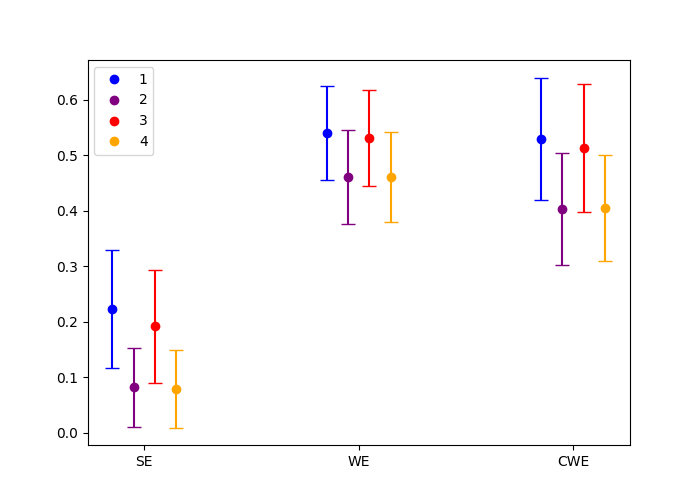
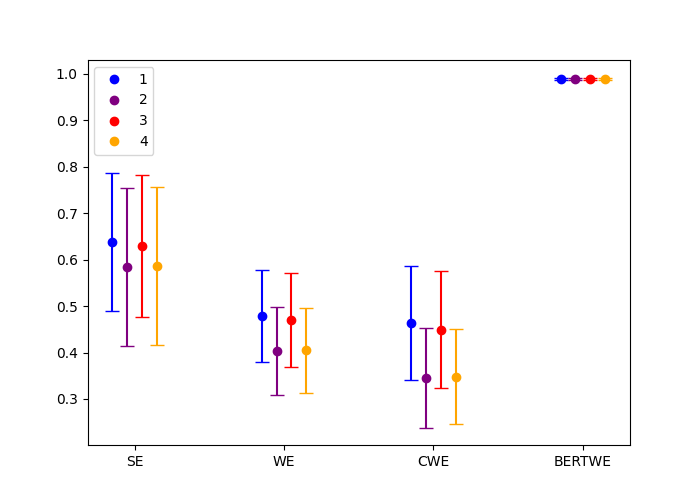
extract semantic association multiple models kuperberg

diff --git a/experiment1/extract_semantic_association.py b/experiment1/extract_semantic_association.py
@@ -18,10 +18,25 @@ from src.word_embedding_models import WordEmbeddingModel, WordEmbeddingModelCont
 from src.sentence_embedding_models import SentenceEmbeddingModel
 from src.append_to_csv import append_df_to_csv
 
+MODEL_REGISTRY = {
+    "SentenceEmbedding": SentenceEmbeddingModel,
+    "WordEmbedding": WordEmbeddingModel,
+    "WordEmbeddingContentWord": WordEmbeddingModelContentWord,
+}
 
-def extract_semantic_association(
-    model: EmbeddingModel, df: pd.DataFrame, model_name: str = ""
-):
+
+def stream_models(config):
+    for model_config in config:
+        model_type = model_config.pop("model_type")
+        implementation = model_config.pop("implementation")
+
+        model_class = MODEL_REGISTRY[model_type]
+        model = model_class(**model_config)
+
+        yield (implementation, model)
+
+
+def extract_semantic_association(model: EmbeddingModel, df: pd.DataFrame):
     """
     Extracts semantic association for targets in df using the embedding model
 
@@ -34,7 +49,7 @@ def extract_semantic_association(
 
     df = df[df["target"].notna()]
 
-    df[f"semantic_association_{model_name}"] = df.apply(
+    df["semantic_association"] = df.apply(
         lambda row: model.get_semantic_association(
             word=row["target"], context=row["context"]
         ),
@@ -44,37 +59,36 @@ def extract_semantic_association(
 
 
 def plot_semantic_association(
-    df: pd.DataFrame, model_names: list, title: str = "", save_path: Path = None
+    df: pd.DataFrame, title: str = "", save_path: Path = None
 ):
     plt.figure(figsize=(7, 5))
     colors = ["blue", "purple", "red", "orange"]
 
+    # Dodge offset: spread conditions evenly around 0
     conds = sorted(df["cond"].unique())
     n_conds = len(conds)
-
-    # Dodge offset: spread conditions evenly around 0
+    implementations = df["implementation"].unique()
     dodge_range = 0.3
     offsets = np.linspace(-dodge_range / 2, dodge_range / 2, n_conds)
     dodge = {cond: offset for cond, offset in zip(conds, offsets)}
-    x_positions = {model: i for i, model in enumerate(model_names)}
+    x_positions = {model: i for i, model in enumerate(implementations)}
 
-    for model_name in model_names:
-        for cond, group in df.groupby("cond"):
-            x = x_positions[model_name] + dodge[cond]
-            sem_mean = group[f"semantic_association_{model_name}"].mean()
-            sem_std = group[f"semantic_association_{model_name}"].std()
-            color = colors[int(cond) - 1]
+    for (implementation, cond), group in df.groupby(["implementation", "cond"]):
+        x = x_positions[implementation] + dodge[cond]
+        sem_mean = group["semantic_association"].mean()
+        sem_std = group["semantic_association"].std()
+        color = colors[int(cond) - 1]
 
-            # standard deviation
-            plt.errorbar(x, sem_mean, yerr=sem_std, capsize=5, color=color)
-            # mean
-            if model_name == model_names[0]:  # avoiding duplicate labels
-                plt.plot(x, sem_mean, "o", color=color, label=int(cond))
-            else:
-                plt.plot(x, sem_mean, "o", color=color)
+        # standard deviation
+        plt.errorbar(x, sem_mean, yerr=sem_std, capsize=5, color=color)
+        # mean
+        if implementation == implementations[0]:  # avoiding duplicate labels
+            plt.plot(x, sem_mean, "o", color=color, label=int(cond))
+        else:
+            plt.plot(x, sem_mean, "o", color=color)
 
     # model names as ticks
-    plt.xticks(ticks=range(len(model_names)), labels=model_names)
+    plt.xticks(ticks=range(len(implementations)), labels=implementations)
 
     plt.legend()
     plt.title(title)
@@ -86,24 +100,79 @@ def plot_semantic_association(
 
 if __name__ == "__main__":
     data_path = Path("experiment1", "data", "Kuperberg", "sentences.xlsx")
+    out_path = Path("experiment1", "results", "kuperberg_semantic_association.csv")
     df = pd.read_excel(data_path)
 
-    print("Initializing model(s)")
-    models = {
-        "SE": SentenceEmbeddingModel("all-MiniLM-L6-v2"),
-        "WE": WordEmbeddingModel("enwiki_20180420_100d"),
-        "CWE": WordEmbeddingModelContentWord(
-            "enwiki_20180420_100d", spacy_model_name="en_core_web_sm"
-        ),
-    }
+    config = [
+        # {
+        #     "implementation": "SE",
+        #     "model_type": "SentenceEmbedding",
+        #     "model_name": "intfloat/multilingual-e5-large",
+        # },
+        # {
+        #     "implementation": "SE",
+        #     "model_type": "SentenceEmbedding",
+        #     "model_name": "jinaai/jina-embeddings-v5-text-small",
+        # },
+        {
+            "implementation": "SE",
+            "model_type": "SentenceEmbedding",
+            "model_name": "BAAI/bge-m3",
+        },
+        {
+            "implementation": "SE",
+            "model_type": "SentenceEmbedding",
+            "model_name": "Gameselo/STS-multilingual-mpnet-base-v2",
+        },
+        {
+            "implementation": "SE",
+            "model_type": "SentenceEmbedding",
+            "model_name": "intfloat/e5-large-v2",
+        },
+        # {
+        #     "implementation": "WE",
+        #     "model_type": "WordEmbedding",
+        #     "model_name": "enwiki_20180420_100d",
+        # },
+        {
+            "implementation": "WE",
+            "model_type": "WordEmbedding",
+            "model_name": "enwiki_20180420_300d",
+        },
+        # {
+        #     "implementation": "CWE",
+        #     "model_type": "WordEmbeddingContentWord",
+        #     "model_name": "enwiki_20180420_100d",
+        #     "spacy_model_name": "en_core_web_sm",
+        # },
+        {
+            "implementation": "CWE",
+            "model_type": "WordEmbeddingContentWord",
+            "model_name": "enwiki_20180420_300d",
+            "spacy_model_name": "en_core_web_sm",
+        },
+        #     {
+        #         "implementation": "BERTWE",
+        #         "model_type": "SentenceEmbedding",
+        #         "model_name": "FacebookAI/xlm-roberta-large",
+        #     },
+    ]
 
-    print("extracting semantic association")
-    for name, model in models.items():
-        df = extract_semantic_association(model, df, model_name=name)
+    print("Extracting semantic association")
+    for name, model in stream_models(config):
+        print(f"{name}: {model.model_name}")
+        df_sem = extract_semantic_association(model, df)
 
-    print("plotting semantic association")
+        # save output
+        append_df_to_csv(
+            df_sem,
+            path=out_path,
+            extra_cols={"implementation": name, "model": model.model_name},
+        )
+
+    print("Plotting semantic association")
+    df_results = pd.read_csv(out_path)
     plot_semantic_association(
-        df,
-        model_names=list(models.keys()),
+        df_results,
         save_path=Path("experiment1", "figs", "semantic_association_kuperberg.png"),
     )
